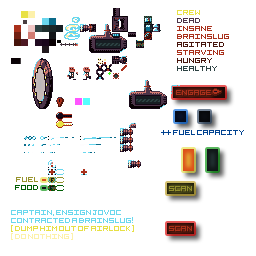
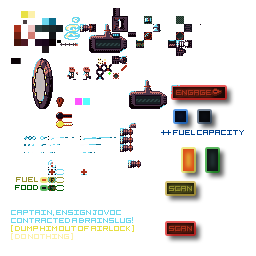
Add building versions of all structures, to indicate they are not finished yet.

Changed region(s): [[0.6562, 0.0312, 0.9062, 0.2812], [0.5625, 0.0938, 0.625, 0.125]]

diff --git a/core/src/net/mostlyoriginal/game/manager/AssetSystem.java b/core/src/net/mostlyoriginal/game/manager/AssetSystem.java
@@ -90,6 +90,14 @@ public class AssetSystem extends net.mostlyoriginal.api.manager.AbstractAssetSys
         add("c-ramscoop-placed",112,56, 16, 8, 1);
         add("c-chain-placed",64,40, 8, 8, 1);
 
+        add("c-bunks-building",184,24, 8, 8, 1);
+        add("c-medbay-building",176,16, 8, 8, 1);
+        add("c-hydroponics-building",168,40, 8, 8, 1);
+        add("c-storagepod-building",176,32, 8, 8, 1);
+        add("c-engine-building",176,40, 16, 8, 1);
+        add("c-ramscoop-building",176,48, 16, 8, 1);
+        add("c-chain-building",64,40, 8, 8, 1);
+
         add("hull-0",88, 32, 8, 8, 1); // top left
         add("hull-1",96, 32, 8, 8, 1); // top
         add("hull-2",120,32, 8, 8, 1); // top right

diff --git a/core/src/net/mostlyoriginal/game/component/ship/ShipComponent.java b/core/src/net/mostlyoriginal/game/component/ship/ShipComponent.java
@@ -43,6 +43,7 @@ public class ShipComponent extends Component {
         public final int xOffset;
         public final boolean countsAsHull;
         public final int buildManYears;
+        public final String buildingAnimId;
 
         /**
          * @param animId
@@ -60,6 +61,7 @@ public class ShipComponent extends Component {
             this.countsAsHull = countsAsHull;
             this.buildManYears = buildManYears;
             this.placedAnimId = animId + "-placed";
+            this.buildingAnimId = animId + "-building";
             this.buildable = buildable;
         }
     }

diff --git a/core/src/net/mostlyoriginal/game/system/ship/ShipComponentSystem.java b/core/src/net/mostlyoriginal/game/system/ship/ShipComponentSystem.java
@@ -156,7 +156,7 @@ public class ShipComponentSystem extends EntityProcessingSystem {
         Anim anim = mAnim.get(e);
         anim.layer = shipComponent.type.layer;
         if (shipComponent.type.animId != null) {
-            anim.id = shipComponent.type.placedAnimId;
+            anim.id = shipComponent.state == ShipComponent.State.UNDER_CONSTRUCTION ? shipComponent.type.buildingAnimId : shipComponent.type.placedAnimId;
             anim.id2 = null;
         }
     }

diff --git a/core/src/net/mostlyoriginal/game/system/ui/ConstructionSystem.java b/core/src/net/mostlyoriginal/game/system/ui/ConstructionSystem.java
@@ -73,7 +73,7 @@ public class ConstructionSystem extends EntityProcessingSystem {
             }
 
         } else {
-            anim.color.a = shipComponent.state == ShipComponent.State.UNDER_CONSTRUCTION ? 0.5f : 1f;
+            anim.color.a = 1f;
         }
 
     }
